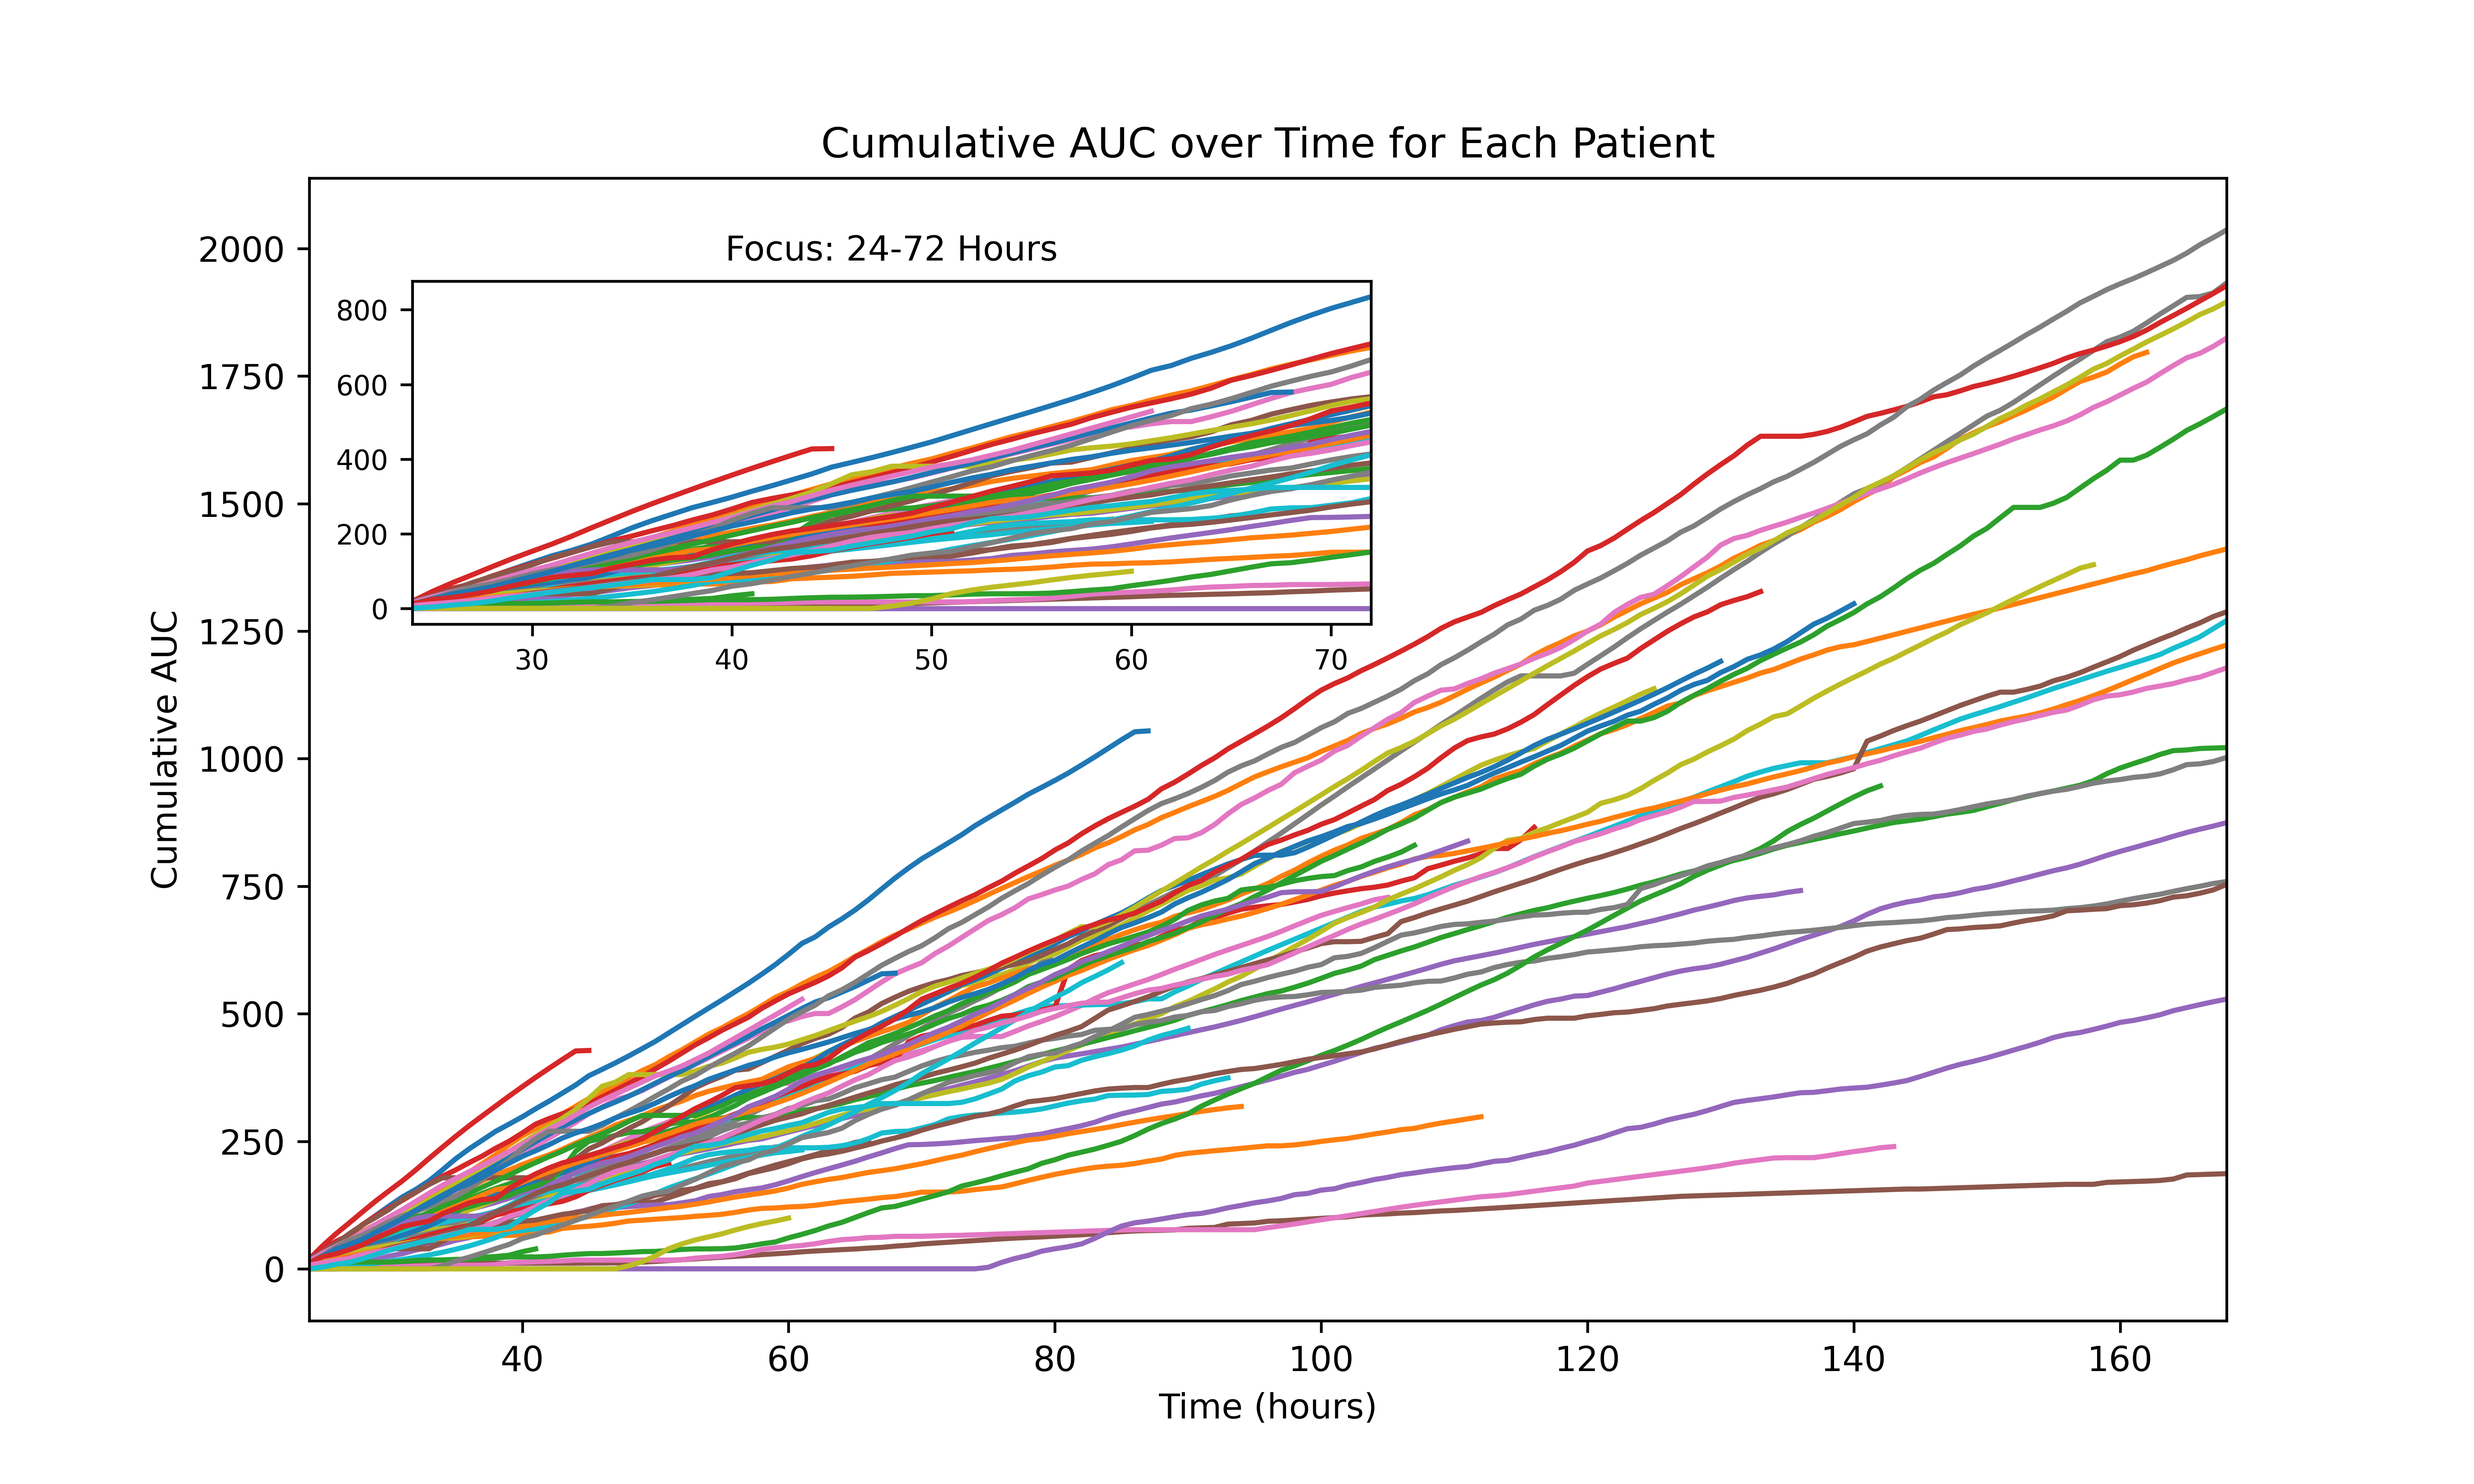
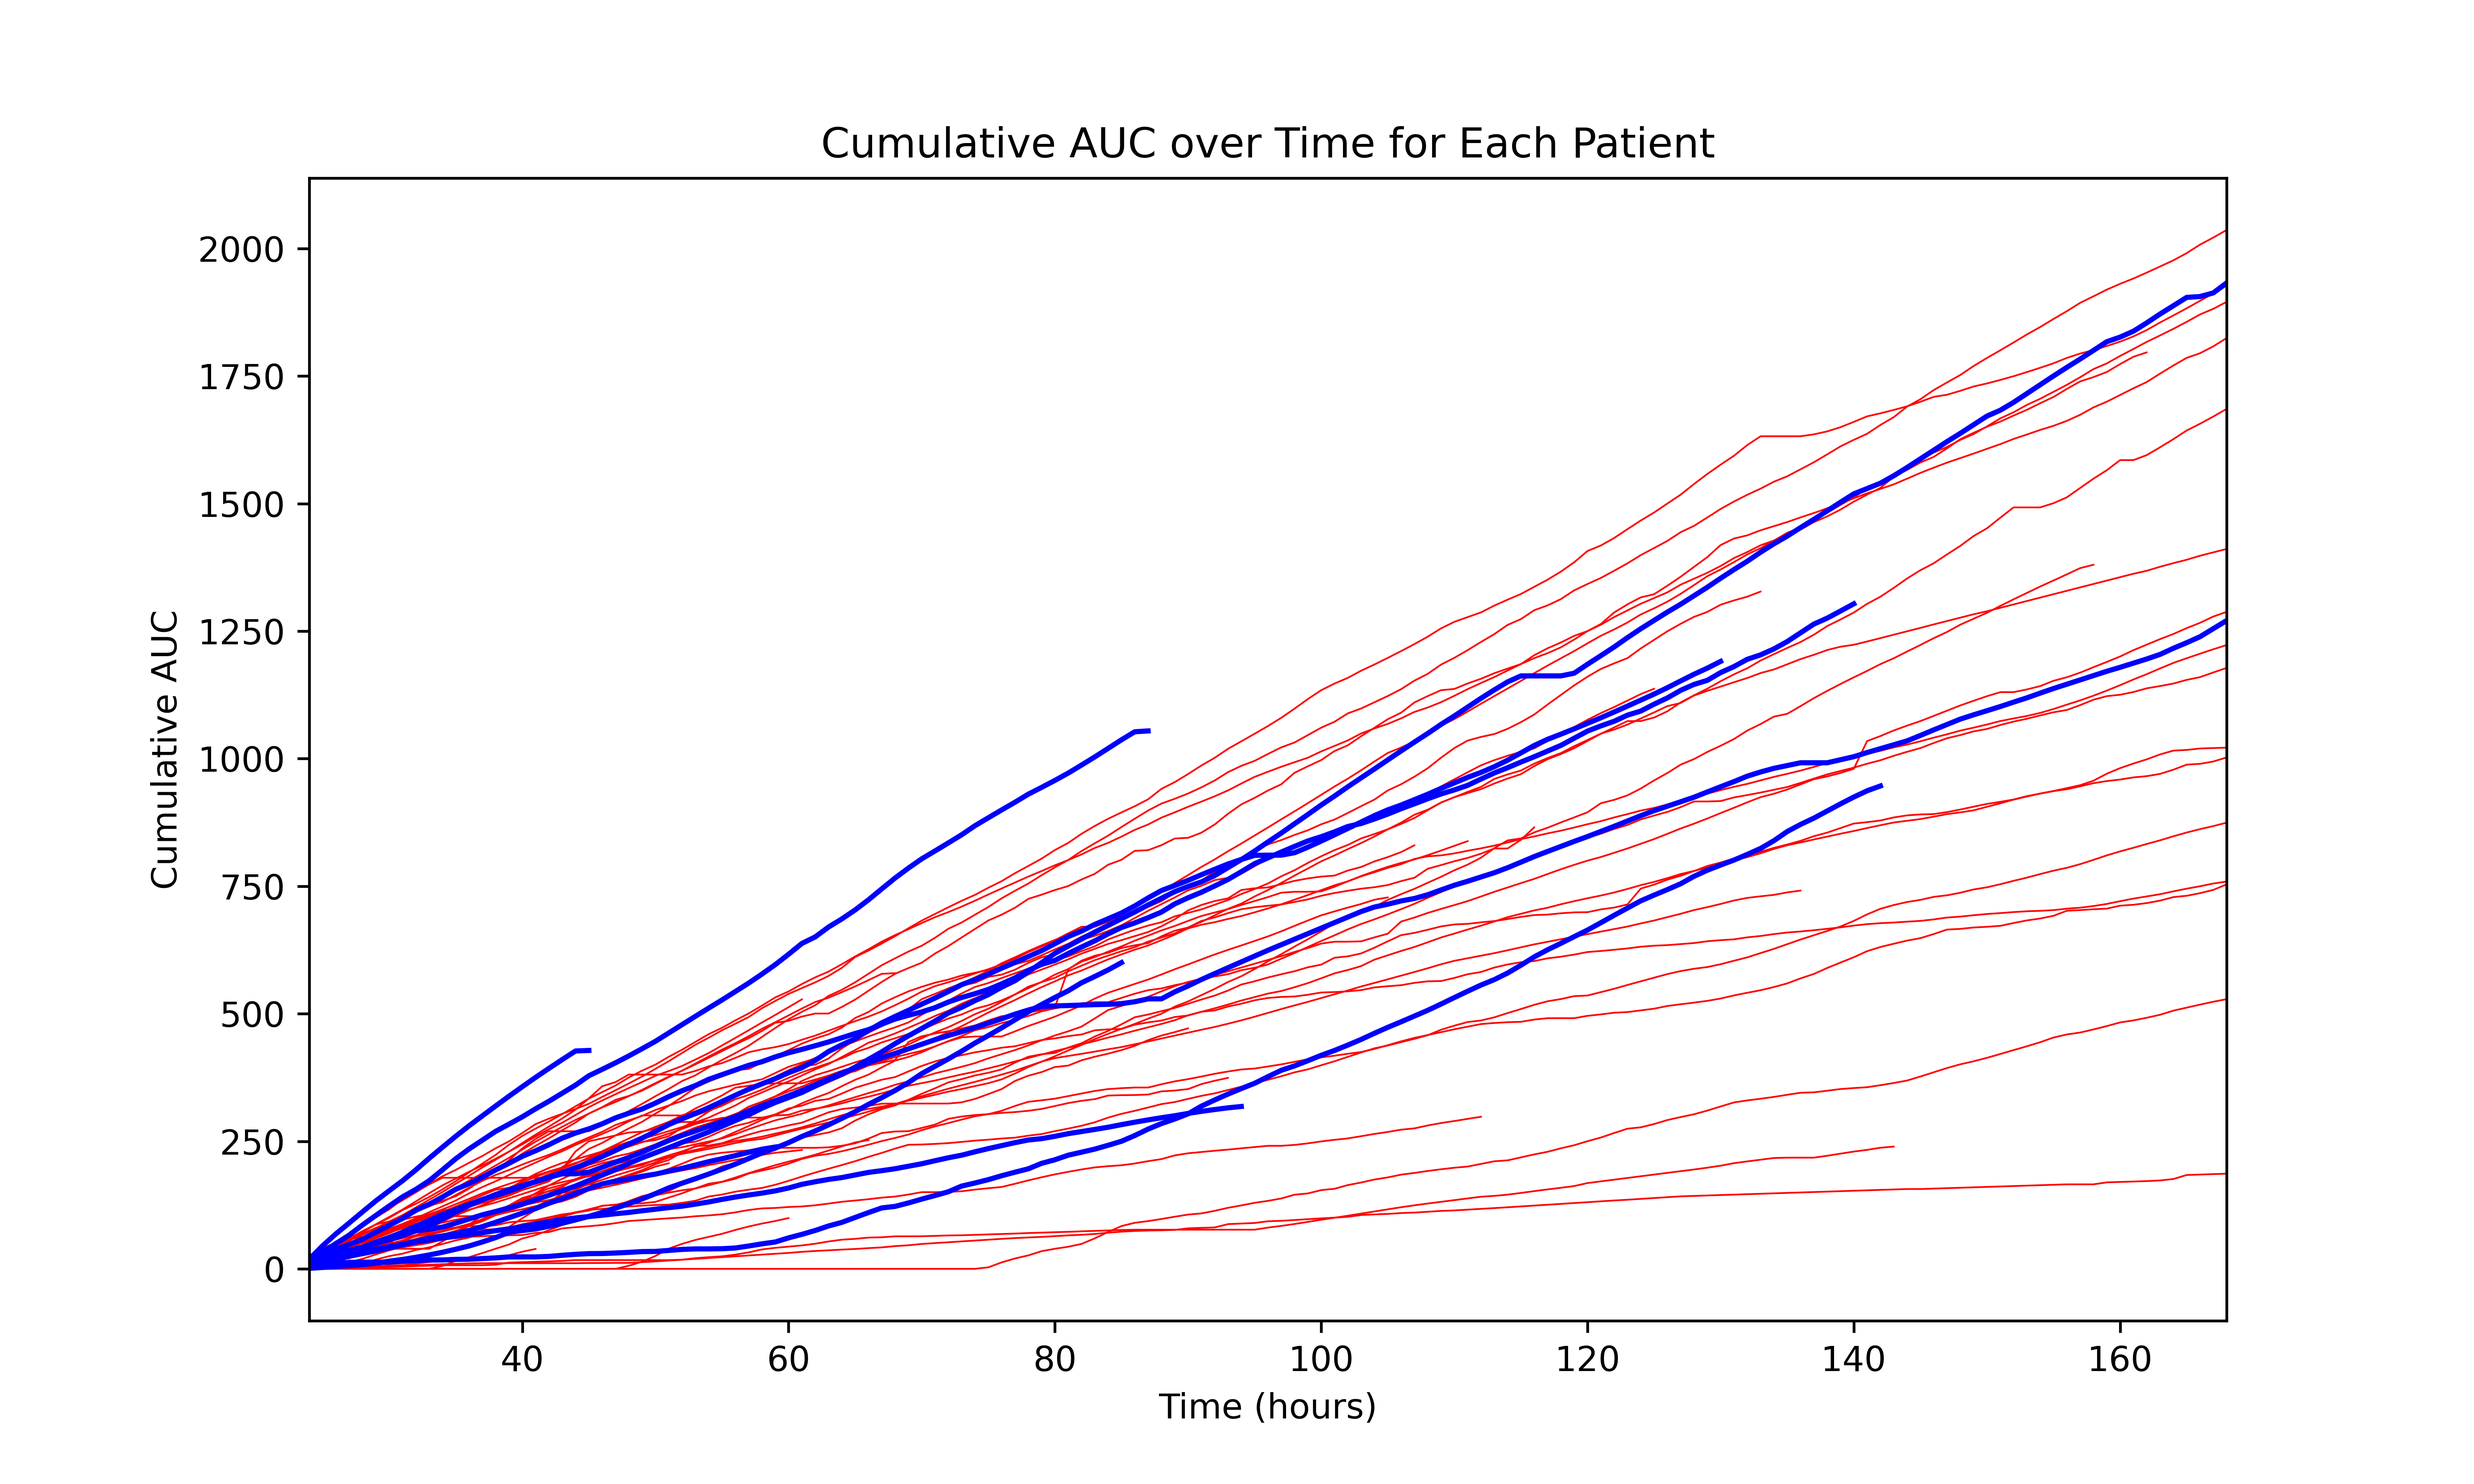
New basic graph code

diff --git a/graphing.py b/graphing.py
@@ -14,21 +14,32 @@ df = pd.read_csv(r"C:\ICP_analysis_paper\ICP_modeling_paper\Older files\result_f
 # iterate through array, and plot each onto a matplotlib interface 
 # at the end, do a .show(). render with 600 dpi 
 
-unique_patients = df['patientunitstayid'].unique()
+alive_data = df[df['CompOutcome'] == 0]
+expired_data = df[df['CompOutcome'] == 1]
 
-graph_data = []
+unique_patients_good = alive_data['patientunitstayid'].unique()
+unique_patients_bad = expired_data['patientunitstayid'].unique()
 
-for patient_id in unique_patients: 
+graph_data_good = []
+graph_data_bad = [] 
+
+for patient_id in unique_patients_good: 
     # Filter data for each patient
-    patient_data = df[df['patientunitstayid'] == patient_id]
-    graph_data.append((patient_data['Hour'].values, patient_data['AUCCum'].values))
+    patient_data = alive_data[alive_data['patientunitstayid'] == patient_id]
+    graph_data_good.append((patient_data['Hour'].values, patient_data['AUCCum'].values))
+for patient_id in unique_patients_bad: 
+    patient_data = expired_data[expired_data['patientunitstayid'] == patient_id]
+    graph_data_bad.append((patient_data['Hour'].values, patient_data['AUCCum'].values))
 
-plt.figure(figsize=(10,6))
+plt.figure(figsize=(10,6) )
 
 # for loop for plot 
 
-for time_data, auc_data in graph_data:
-    plt.plot(time_data, auc_data, label=f'Patient {time_data[0]}')
+for time_data, auc_data in graph_data_good:
+    plt.plot(time_data, auc_data, label=f'Patient {time_data[0]}', c="red", linewidth=0.5)
+
+for time_data, auc_data in graph_data_bad: 
+    plt.plot(time_data, auc_data, label=f'Patient {time_data[0]}', c="blue")
 
 plt.title("Cumulative AUC over Time for Each Patient")
 plt.xlabel("Time (hours)")
@@ -37,7 +48,7 @@ plt.xlim(24, 168)
 # plt.yscale("log")
 # plt.legend()
 
-
+'''
 from mpl_toolkits.axes_grid1.inset_locator import inset_axes
 
 # Define the inset axes
@@ -57,9 +68,11 @@ ax_inset.set_title("Focus: 24-72 Hours", fontsize=10)
 # ax_inset.set_xlabel("Time (hours)", fontsize=8)
 # ax_inset.set_ylabel("Cumulative AUC", fontsize=8)
 ax_inset.tick_params(axis='both', which='major', labelsize=8)
+'''
 
 plt.savefig("cumulative_icp_Inset.png", dpi=600)
 plt.show()
+
 
 # %%
 
@@ -79,7 +92,7 @@ alive_data = df[df['CompOutcome'] == 0]
 expired_data = df[df['CompOutcome'] == 1]
 
 # Function to calculate median and error bars for AUCHr per hour
-def calculate_median_and_error(data, time_column='Hour', value_column='AUCHr'):
+def calculate_median_and_error(data, time_column='Hour', value_column='Sp35AUCCum'): # change for every val you need 
     # Group by time and calculate the median, 25th, and 75th percentiles
     grouped = data.groupby(time_column)[value_column].agg(['median', 'quantile'])
     grouped['q25'] = data.groupby(time_column)[value_column].quantile(0.25)
@@ -112,7 +125,7 @@ plt.xlabel("Time (hours)")
 plt.ylabel("AUCHr")
 plt.legend()
 plt.grid(True)
-plt.xlim(0, 168)  # Adjust as necessary based on your dataset
+plt.xlim(24, 168)  # Adjust as necessary based on your dataset
 
 # Save and display the plot
 plt.savefig("median_auchr_plot.png", dpi=600)
@@ -125,7 +138,7 @@ alive_data = df[df['CompOutcome'] == 0]
 expired_data = df[df['CompOutcome'] == 1]
 
 # Function to calculate median and error bars for AUCHr every 24 hours
-def calculate_median_and_error(data, time_column='Hour', value_column='AUCHr', interval=24):
+def calculate_median_and_error(data, time_column='Hour', value_column='Sp35AUCCum', interval=24):
     # Bin the hours into intervals of `interval` (e.g., 24 hours)
     data['HourBin'] = (data[time_column] // interval) * interval
 
